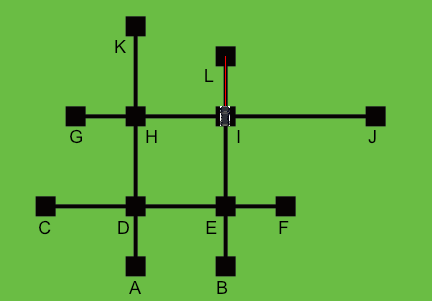
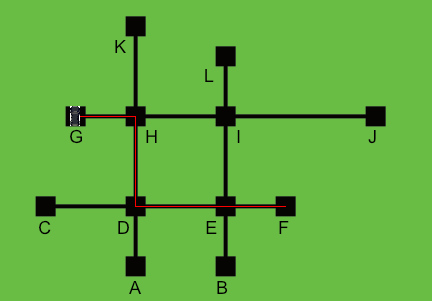
changed rotation of car on map with positioningsystem and navigation

Changed region(s): [[0.3009, 0.6578, 0.662, 0.6877], [0.1505, 0.3289, 0.3009, 0.4186], [0.5116, 0.3289, 0.5417, 0.4186]]

diff --git a/UserInterface/UserIntefaceForNavigation.py b/UserInterface/UserIntefaceForNavigation.py
@@ -97,10 +97,42 @@ class userInterface:
     def getClosedProgramBool(self):
         return self.endedProgramm
 
-    def position_car_on_map(self,standing_of_car_on_map):
+    def get_initial_orientation_of_car_on_map(self, route):
+        match self.startPoint:
+            case 1, 2:
+                return 4
+            case 3, 7:
+                return 1
+            case 11, 12:
+                return 2
+            case 6, 10:
+                return 0
+            case _:
+                node_coords = self.loadNodeCoords() # 0 counter   1 clockwise    2 180grad
+                current_node_index = route[0]
+                next_node_index = route[1]
+                current_node = node_coords[current_node_index-1]
+                next_node = node_coords[next_node_index-1]
+                if current_node[0] == next_node[0]:
+                    if current_node[1] < next_node[1]:
+                        return 2
+                    else:
+                        return 4
+                elif current_node[1] == next_node[1]:
+                    if current_node[0] < next_node[0]:
+                        return 1
+                    elif current_node[0] > next_node[0]:
+                        return 0
+                return 4
+
+
+
+    def position_car_on_map(self,route):
         car = cv2.imread("UserInterface/car2.png",cv2.IMREAD_UNCHANGED)
         car_resized = cv2.resize(car,(10, 20))
-        car_resized = self.get_rotated_car(standing_of_car_on_map, car_resized)
+        rotation = self.get_initial_orientation_of_car_on_map(route)
+        car_resized = self.get_rotated_car(rotation, car_resized)
+        cv2.imwrite("UserInterface/car_current_orientation.png", car_resized)
 
         map = cv2.imread("UserInterface/map_with_route.png", cv2.IMREAD_UNCHANGED)
         # Erstelle einen leeren Alphakanal mit denselben Dimensionen wie das Bild
@@ -114,7 +146,6 @@ class userInterface:
         nodeCoordsInMap = self.loadNodeCoords()
 
         car_height, car_width = car_resized.shape[:2]
-        print(self.startPoint)
 
         x_position = nodeCoordsInMap[self.startPoint-1][0] - int(car_width/2)
         y_position = nodeCoordsInMap[self.startPoint-1][1] - int(car_height/2)
@@ -131,7 +162,7 @@ class userInterface:
         self.tkinterImage.image = imageTk
 
     def update_position_of_car_on_map(self,current_node, next_node, standing_of_car_on_map,current_cost, cost_between_nodes):
-        car = cv2.imread("UserInterface/car2.png", cv2.IMREAD_UNCHANGED)
+        car = cv2.imread("UserInterface/car_current_orientation.png", cv2.IMREAD_UNCHANGED)
         car_resized = cv2.resize(car, (10, 20))
         car_resized = self.get_rotated_car(standing_of_car_on_map, car_resized)
 
@@ -161,8 +192,6 @@ class userInterface:
             pixel_of_one_cost = pixels_between_two_nodes_x / cost_between_nodes
             current_pixel_cost_on_map = pixel_of_one_cost * current_cost
             x_position = int(current_node[0] + current_pixel_cost_on_map)
-        print(x_position)
-        print(y_position)
 
         map = cv2.imread("UserInterface/map_with_route.png", cv2.IMREAD_UNCHANGED)
         # Erstelle einen leeren Alphakanal mit denselben Dimensionen wie das Bild
@@ -259,7 +288,7 @@ class userInterface:
         return int(self.endPoint)
 
     def setDistance(self,cost):
-        self.dist = int(cost)
+        self.dist = float(cost)
         self.dist_to_drive = self.dist
         self.updateDrivenDistance(self.dist)
 
@@ -277,7 +306,8 @@ class userInterface:
 
     def updateDrivenDistance(self,dist):
         #self.dist = dist
-        self.tkinterCurrentDrivenDistance.config(text="Distance: " + str(dist) + " m")
+        rounded_dist = round(dist, 1)
+        self.tkinterCurrentDrivenDistance.config(text="Distance: " + str(rounded_dist) + " m")
 
     def updateButton(self):
         if self.instruction == instructionDrive:

diff --git a/Navigation/Navigation.py b/Navigation/Navigation.py
@@ -67,7 +67,7 @@ class navigation:
 
                 match self.state:
                     case 1:
-                        if self.ui.getIfUserInputIsReady():
+                        if self.ui.userInputIsReady:
                             self.state = afterInputState
                     case 2:
                         route, cost, drivingInstructions = self.getRouteFromAlgorithm(self.ui.getStartPointForNavigation(), self.ui.getEndPointForNavigation())
@@ -76,8 +76,7 @@ class navigation:
                         self.routingCost = cost
                         self.ui.setDistance(self.calcRealRangeFromCost())
                         self.ui.drawRouteInMap(route)
-                        #funktion machen die anhand der nodes auswählt wie die anfangsrotation des Fahrzeugs ist
-                        self.ui.position_car_on_map(4)
+                        self.ui.position_car_on_map(route)
                         print(self.ui.getDrivingInstructionsFromRoute(route))
                     case 3:
                         if self.server.accept_connection():
@@ -85,18 +84,18 @@ class navigation:
                             self.server.handle_data()
                             self.ui.calc_distance_to_drive(self.server.dist)
                             self.ui.updateSpeed(self.server.speed * self.factor_for_real_distance)
-                            if self.ui.dist_to_drive == 0:
+                            if self.ui.dist_to_drive < 0:
                                 self.state = drivingState
                                 self.ui.updateSpeed(0)
                             self.current_node_cost = self.find_next_cost_between_two_nodes()
                             # self.current_node_cost = self.server.dist * self.factor_for_real_distance - self.old_cost
                             if self.server.dist * self.factor_for_real_distance >= self.current_node_cost + self.old_cost:
-                                print(self.current_node_cost)
                                 self.update_nodes(self.next_node, self.get_next_node_from_route(route))
                                 self.old_cost += self.current_node_cost
                             driven_distance_between_nodes = self.server.dist * self.factor_for_real_distance - self.old_cost
                             self.ui.update_position_of_car_on_map(self.node_coords_list[self.current_node-1],self.node_coords_list[self.next_node-1],self.server.rotation,driven_distance_between_nodes,self.current_node_cost)
-
+                        else:
+                            print("Timeout gone!")
                     case 4:
                         print("finished driving")
                         self.ui.updateUiToStartAgain()

diff --git a/Navigation/server.py b/Navigation/server.py
@@ -40,21 +40,14 @@ class server:
     def handle_data(self):
         if len(self.data) > 0:
             string = self.data.split()
+            print(string)
+
             counter = 0
-            for i in string:
-                if i.isnumeric():
-                    match counter:
-                        case 0:
-                            self.speed = int(i)
-                            counter += 1
-                        case 1:
-                            self.dist = int(i)
-                            counter += 1
-                        case 2:
-                            self.rotation = int(i)
-                            counter += 1
-                        case 3:
-                            break
+
+            if len(string) > 0:
+                self.speed = int(string[0])
+                self.dist = float(string[1])
+                self.rotation = int(string[2])
 
     def close_connection(self):
         self.server_socket.connection.close()

diff --git a/PositioningSystem/positioningSystem.py b/PositioningSystem/positioningSystem.py
@@ -45,6 +45,13 @@ class positioningSystem:
         speed = self.getSpeedFromSpeedometer()
         dist = self.getDrivenDistanceFromSpeedometer()
         orientation = self.getOrientation()
+        orientation_value_to_send = 0
+        if orientation + 20 < self.defaultOrientationValue or orientation - 20 > self.defaultOrientationValue:
+            orientation_value_to_send = 4
+        elif orientation + 20 > self.defaultOrientationValue:
+            orientation_value_to_send = 1
+        elif orientation - 20 < self.defaultOrientationValue:
+            orientation_value_to_send = 0
         message = (str(speed)+" "+str(dist)+" "+str(orientation))
         self.client.send_message(message)
 

diff --git a/PositioningSystem/client.py b/PositioningSystem/client.py
@@ -25,14 +25,14 @@ def a_f_way(client):
     # client.create_socket()
     counter = 1
     speed = 0
-    dist = 0
+    dist = 0.0
     rot = 4
     while True:
         client.create_socket()
-        if dist == 2:
+        if dist > 2.0:
             rot = 1
         speed = speed + counter
-        dist = dist + counter
+        dist = dist + 0.1
         message = str(speed) + " " + str(dist) + " " + str(rot)
         print(dist)
         client.send_message(message)
@@ -41,7 +41,7 @@ def a_f_way(client):
             counter = -1
         elif speed == 0:
             counter = 1
-        time.sleep(4)
+        time.sleep(0.5)
 
 def a_g_way(client):
     # client.create_socket()

diff --git a/Routing/routing.py b/Routing/routing.py
@@ -142,7 +142,16 @@ def getAdjecentList(currentNode,oldList):           # Arcs vom bestimmten Knoten
     adjacentList2 = []
 
     if currentNode == len(node_list)-1:
-        return 0
+        indexOfNextNode = currentNode - 1
+        rangeArc = node_list[currentNode - 1] - node_list[indexOfNextNode - 1]
+        start = node_list[currentNode - 1]
+
+        for i in range(start - rangeArc, start):
+            arc = arc_list[i]
+            adjacentList2.append(arc)
+
+        return adjacentList2
+
 
     indexOfNextNode = currentNode + 1
     rangeArc = node_list[indexOfNextNode-1]-node_list[currentNode-1]
